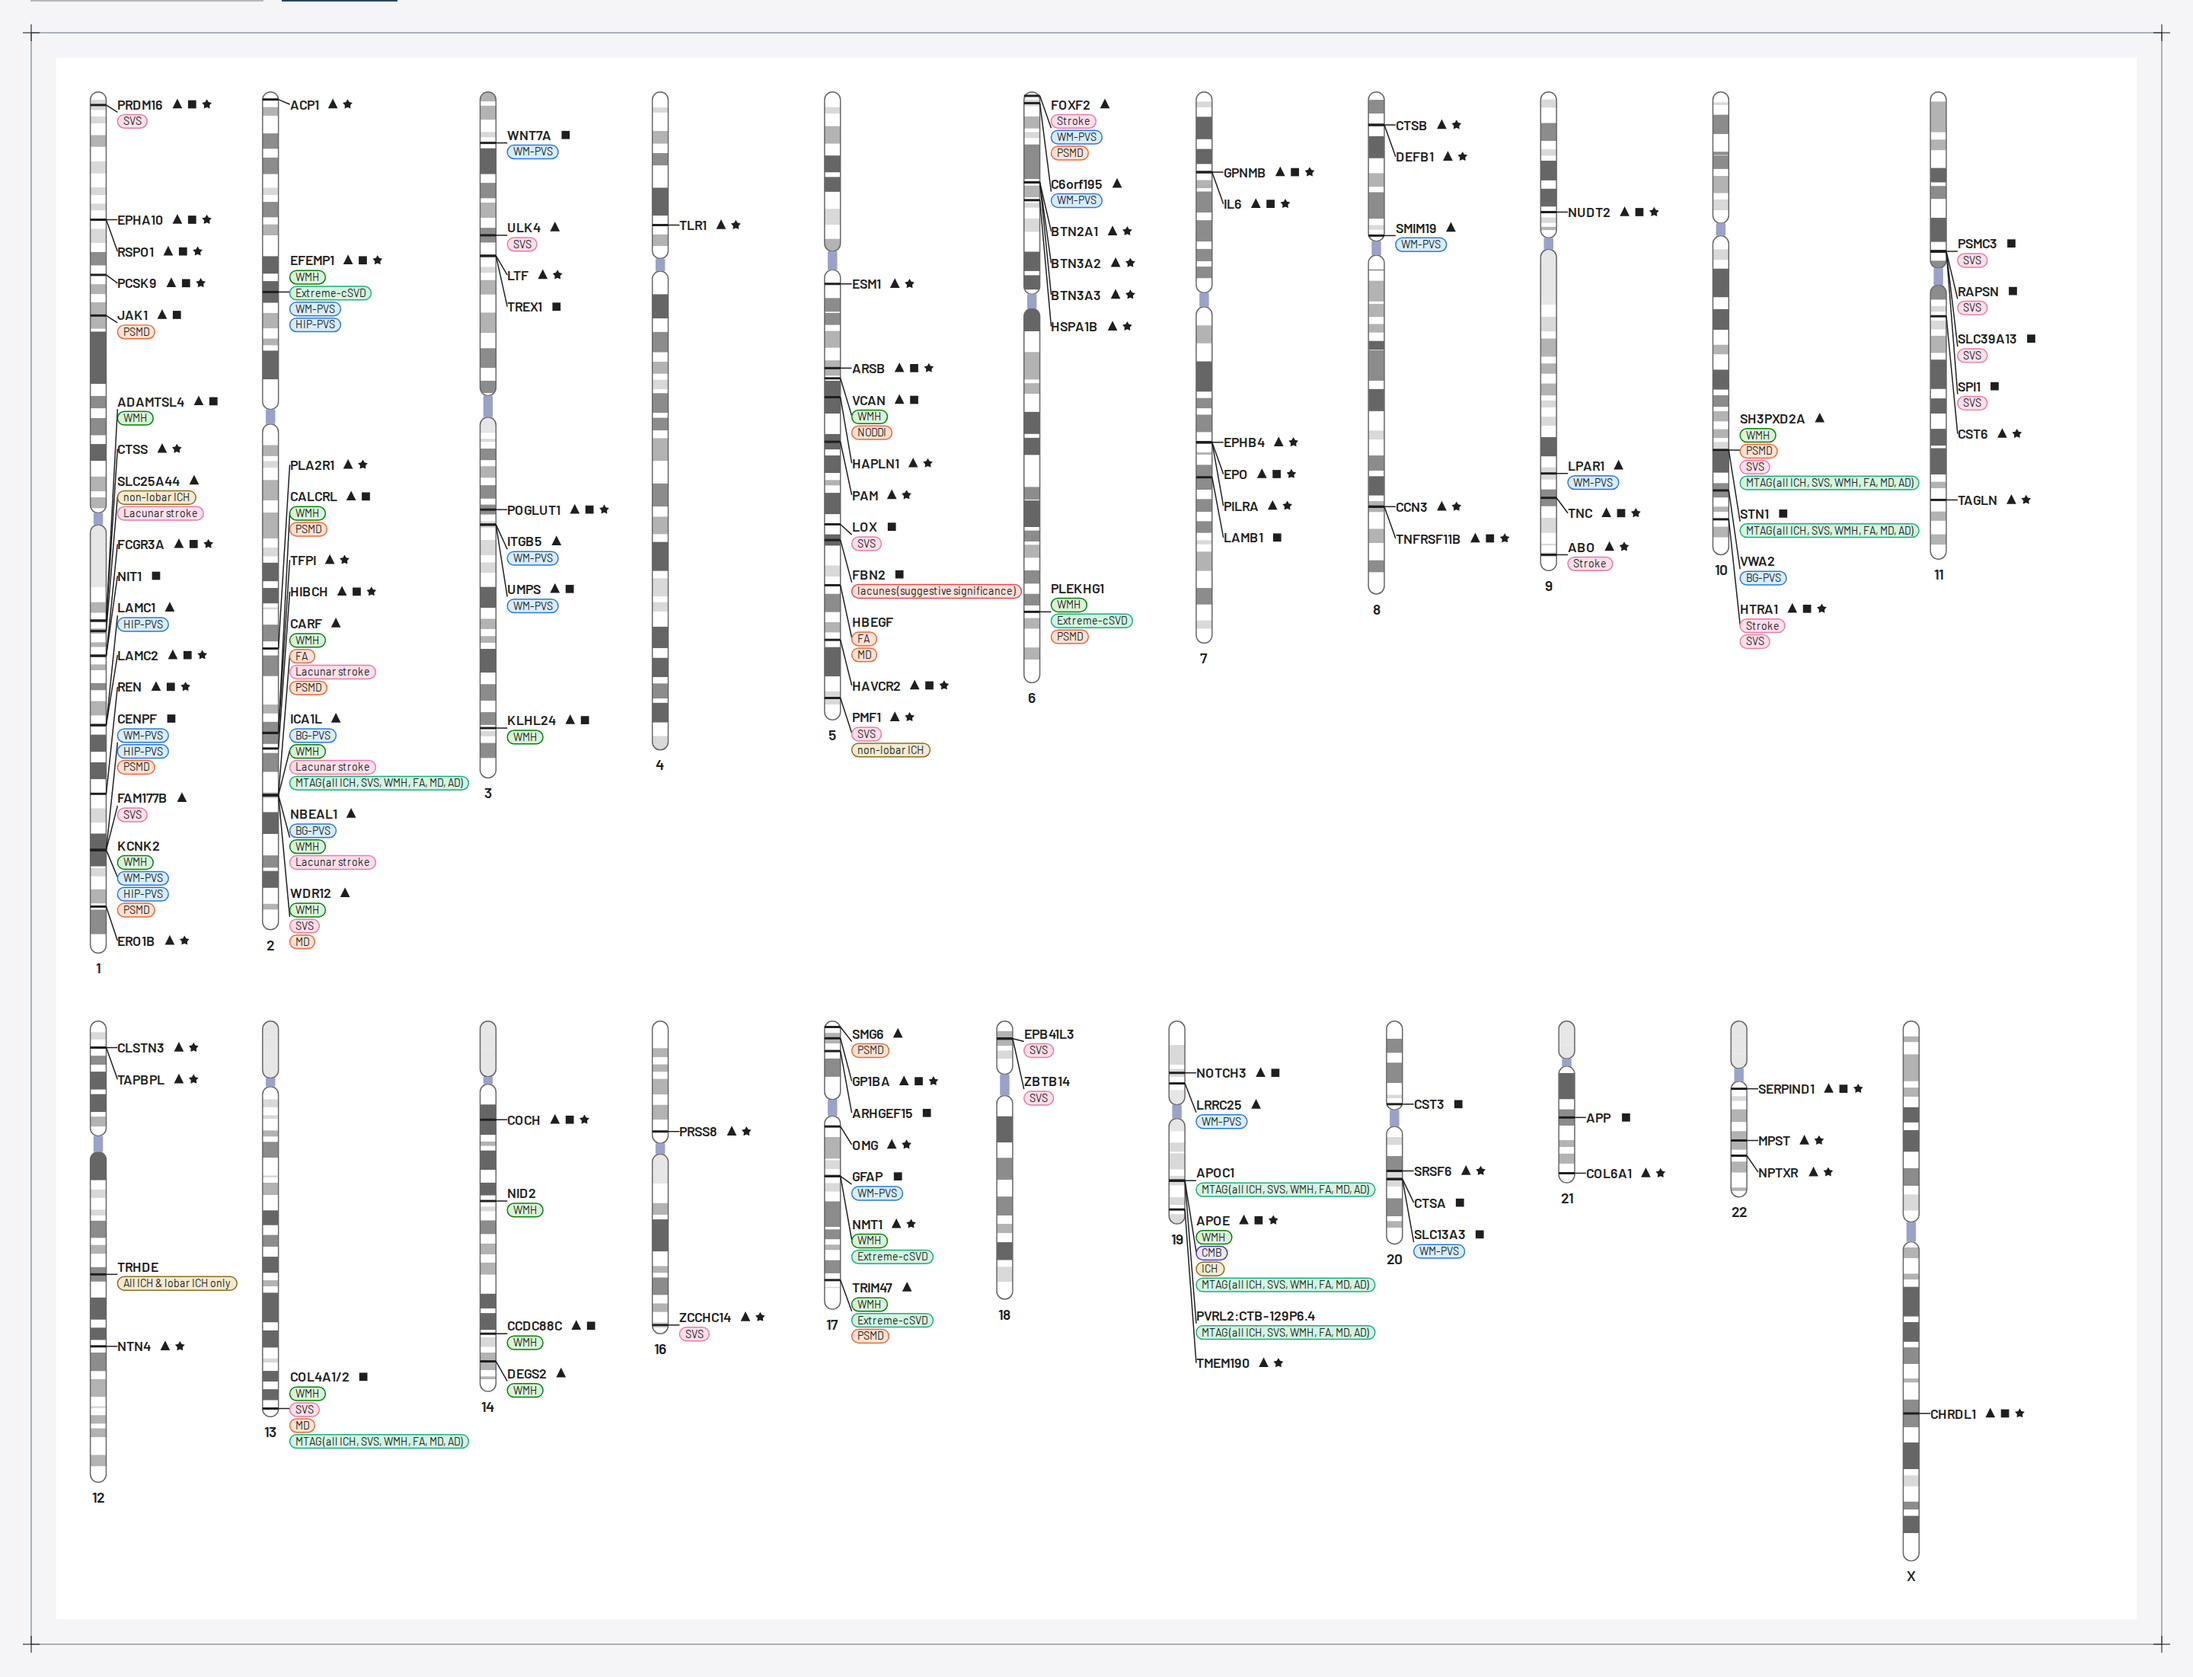
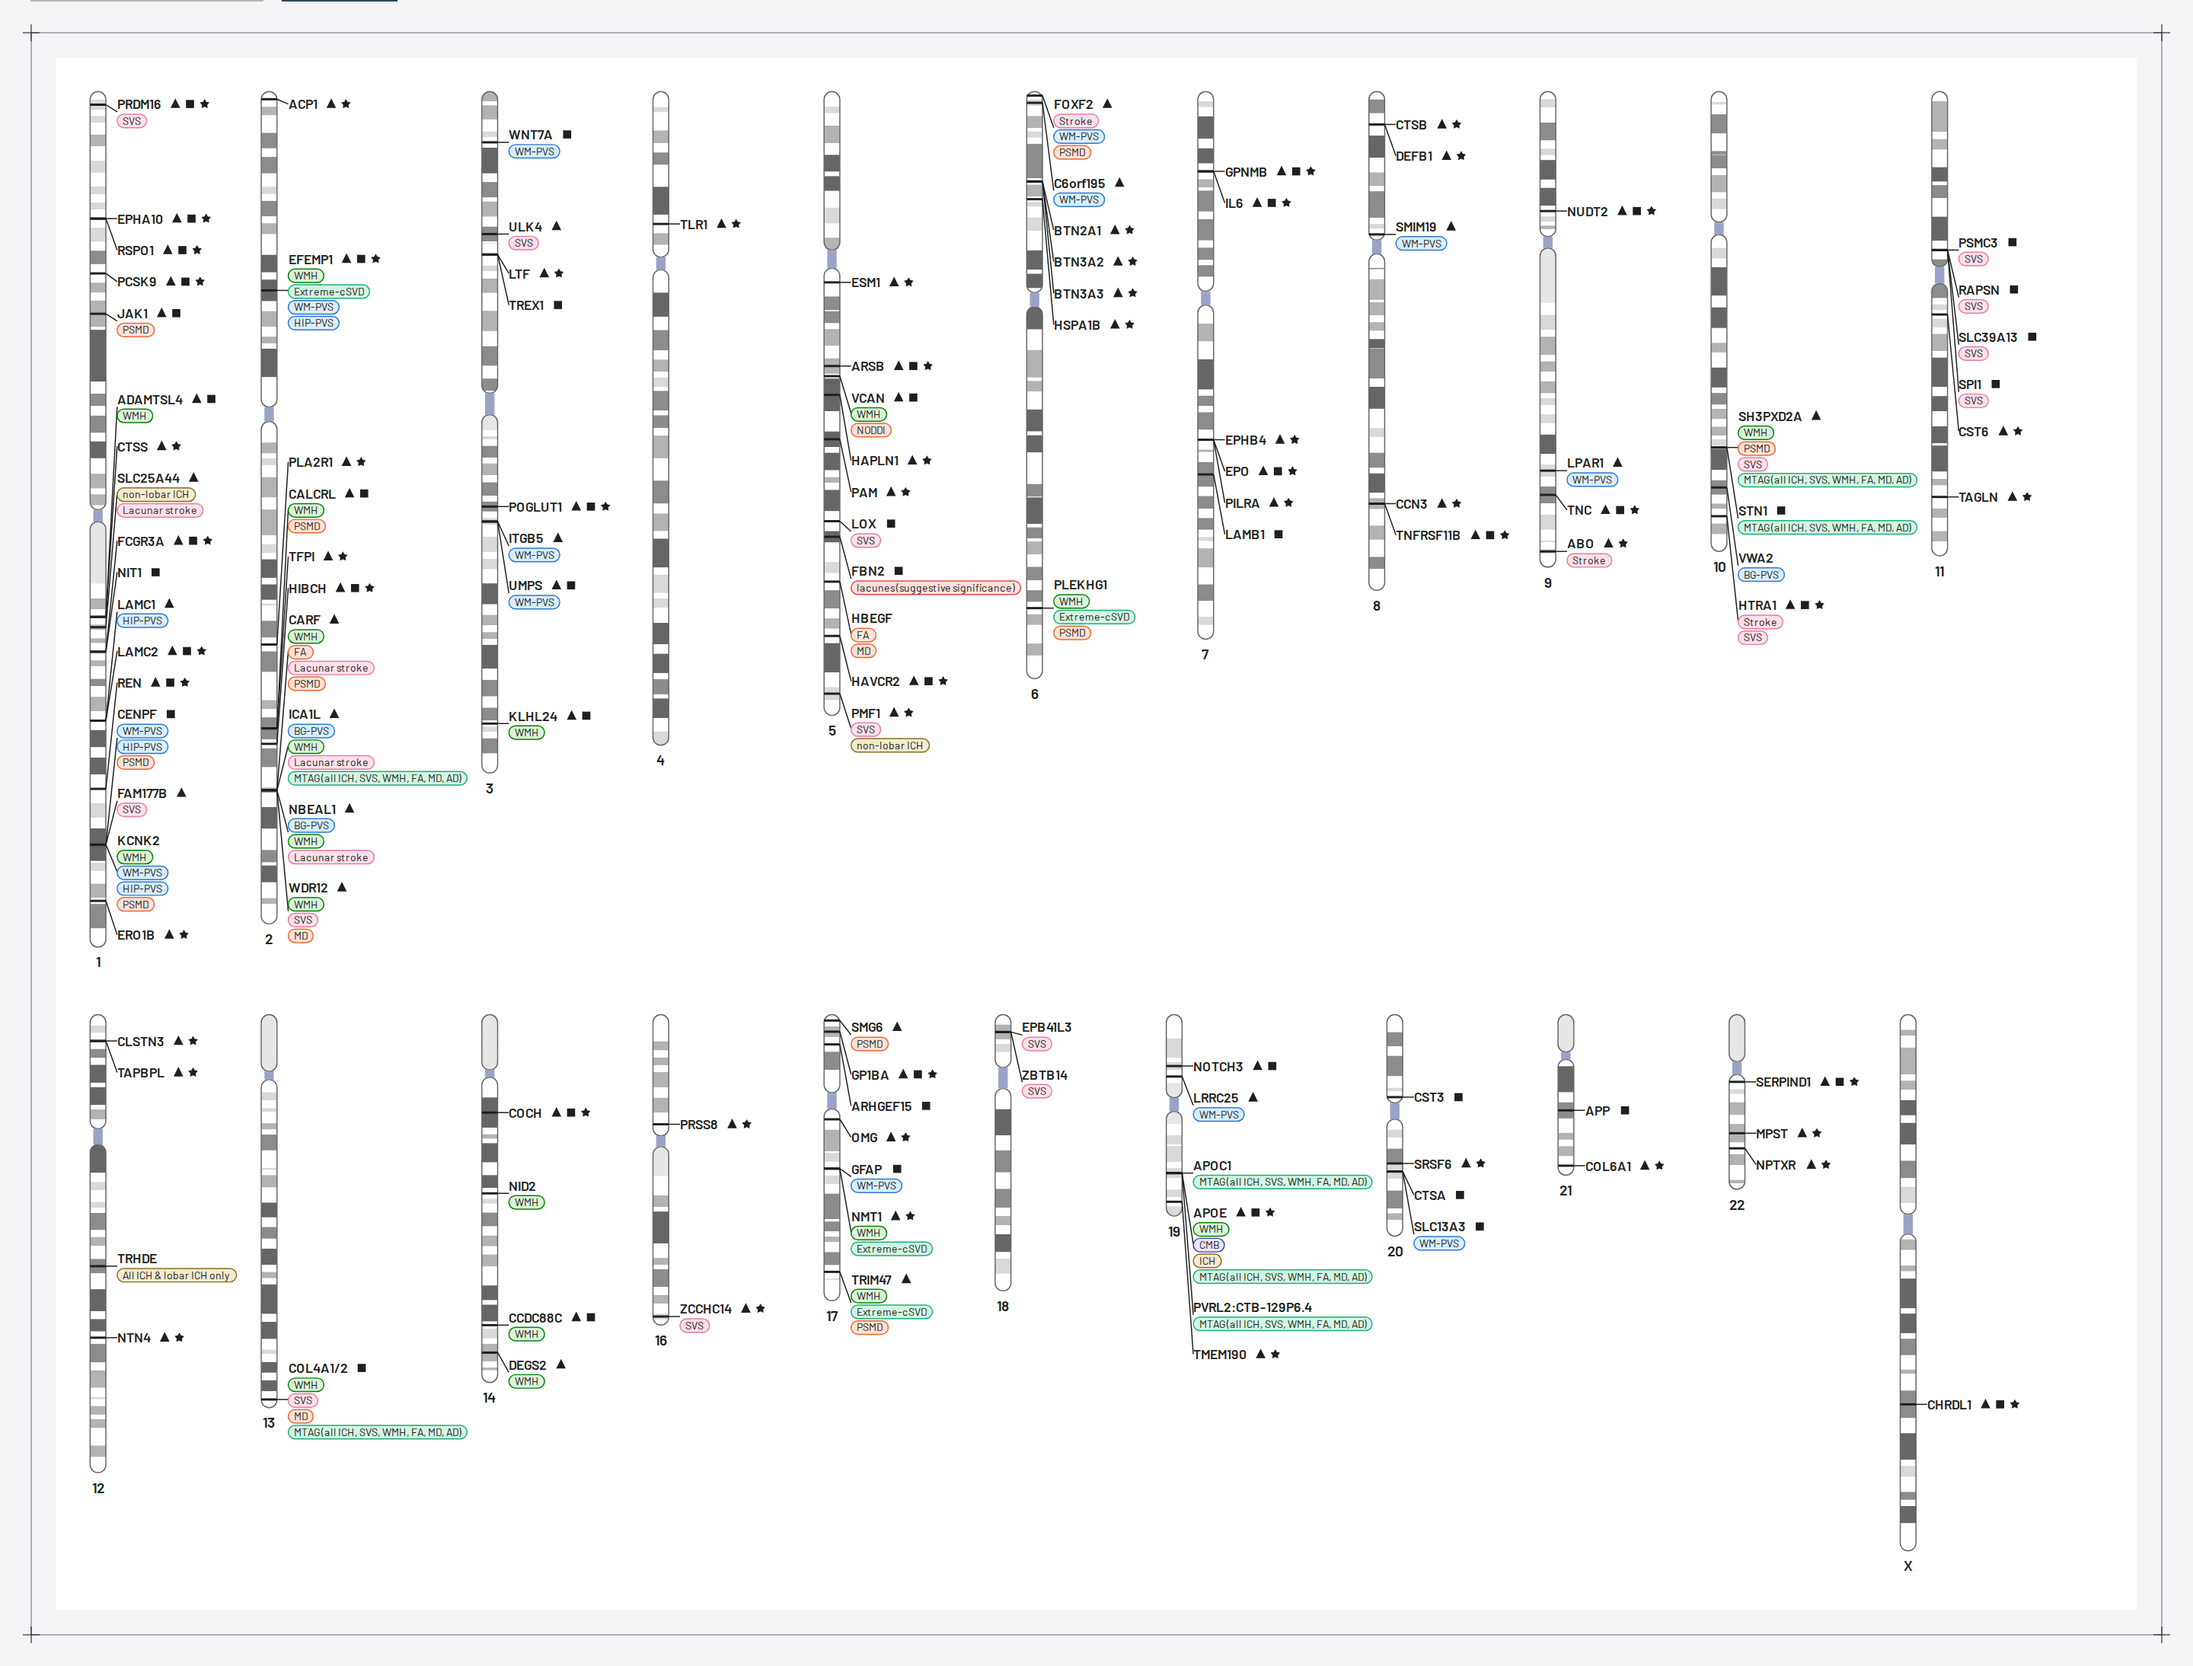
Widen the phenogram's label slack to 10 so browser hinting cannot overrun a column

diff --git a/tests/csvd/phenogram_layout_test.ts b/tests/csvd/phenogram_layout_test.ts
@@ -25,7 +25,7 @@ const chromosome = (name: string) =>
   layout.chromosomes.find((c) => c.name === name)!;
 
 /** Sum of x + y + width + height over every block; the Python suite pins the same. */
-const BLOCK_RECT_SUM = 163825.93730683517;
+const BLOCK_RECT_SUM = 164469.93730683517;
 
 /** Chromosomes carrying a gene in the committed table — the Python test pins the same list. */
 const DRAWN = [
@@ -78,7 +78,7 @@ Deno.test("114 genes are placed, MSMP unplaced, on 22 chromosomes including X", 
 // pinned identically in tests/scripts/csvd/test_csvd_phenogram_figure.py, so
 // the print twin cannot drift from this layout.
 Deno.test("the canvas, the row split and the wide columns are pinned", () => {
-  assertEquals(layout.canvas, { width: 1836, height: 1379 });
+  assertEquals(layout.canvas, { width: 1848, height: 1379 });
   assertEquals(layout.rows.map((row) => row.map((c) => c.name)), [
     DRAWN.slice(0, 11),
     DRAWN.slice(11),
@@ -89,7 +89,7 @@ Deno.test("the canvas, the row split and the wide columns are pinned", () => {
         .filter((c) => c.columnWidth !== L.labelColumn)
         .map((c) => [c.name, c.columnWidth]),
     ),
-    { "2": 168, "5": 152, "10": 168, "13": 168, "19": 168 },
+    { "2": 172, "5": 156, "10": 172, "13": 172, "19": 172 },
   );
   // Every block rect, summed: one number both suites agree on.
   assertAlmostEquals(

diff --git a/tests/scripts/csvd/test_csvd_phenogram_figure.py b/tests/scripts/csvd/test_csvd_phenogram_figure.py
@@ -92,16 +92,16 @@ class TestPlacement:
         """The numbers tests/csvd/phenogram_layout_test.ts pins for
         lib/phenogram.ts, so the two renderers cannot drift apart. Before the
         canvas was derived it was a fixed 1732x1640 split after 10."""
-        assert layout.canvas == (1836, 1379)
+        assert layout.canvas == (1848, 1379)
         assert [[c.name for c in row] for row in layout.rows] == [
             DRAWN[:11],
             DRAWN[11:],
         ]
         assert {
             c.name: c.column_width for c in layout.chromosomes if c.column_width != 128
-        } == {"2": 168, "5": 152, "10": 168, "13": 168, "19": 168}
+        } == {"2": 172, "5": 156, "10": 172, "13": 172, "19": 172}
         assert sum(b.x + b.y + b.width + b.height for b in layout.blocks) == (
-            pytest.approx(163825.93730683517)
+            pytest.approx(164469.93730683517)
         )
 
     def test_the_rasters_errors_are_gone(self, layout) -> None:

diff --git a/.claude/rules/phenogram.md b/.claude/rules/phenogram.md
@@ -89,7 +89,11 @@ Two renderers, one contract, as for the timeline:
     `lib/phenogram_font_metrics.json` -- the advance of every code point the
     shipped `Barlow-400/600-latin.woff2` map, read by `tests/helpers/woff2.ts`
     -- summed and scaled; kerning is ignored and `labelSlack` absorbs it, and
-    an unknown character takes the face's widest advance. **After changing
+    an unknown character takes the face's widest advance. `labelSlack` is 10,
+    not the 6 kerning alone needs: Chrome rounds glyph advances to device
+    pixels at some page scales, and at a 1600px viewport the 36-character
+    MTAG pill measured 7.07 units wider than the table, which a slack of 6
+    let run 0.82 units into the next chromosome. **After changing
     either font file, run `deno task phenogram:metrics`**;
     `tests/phenogram_font_metrics_test.ts` fails until the table matches.
     Python has no Brotli, so it only reads the JSON;
